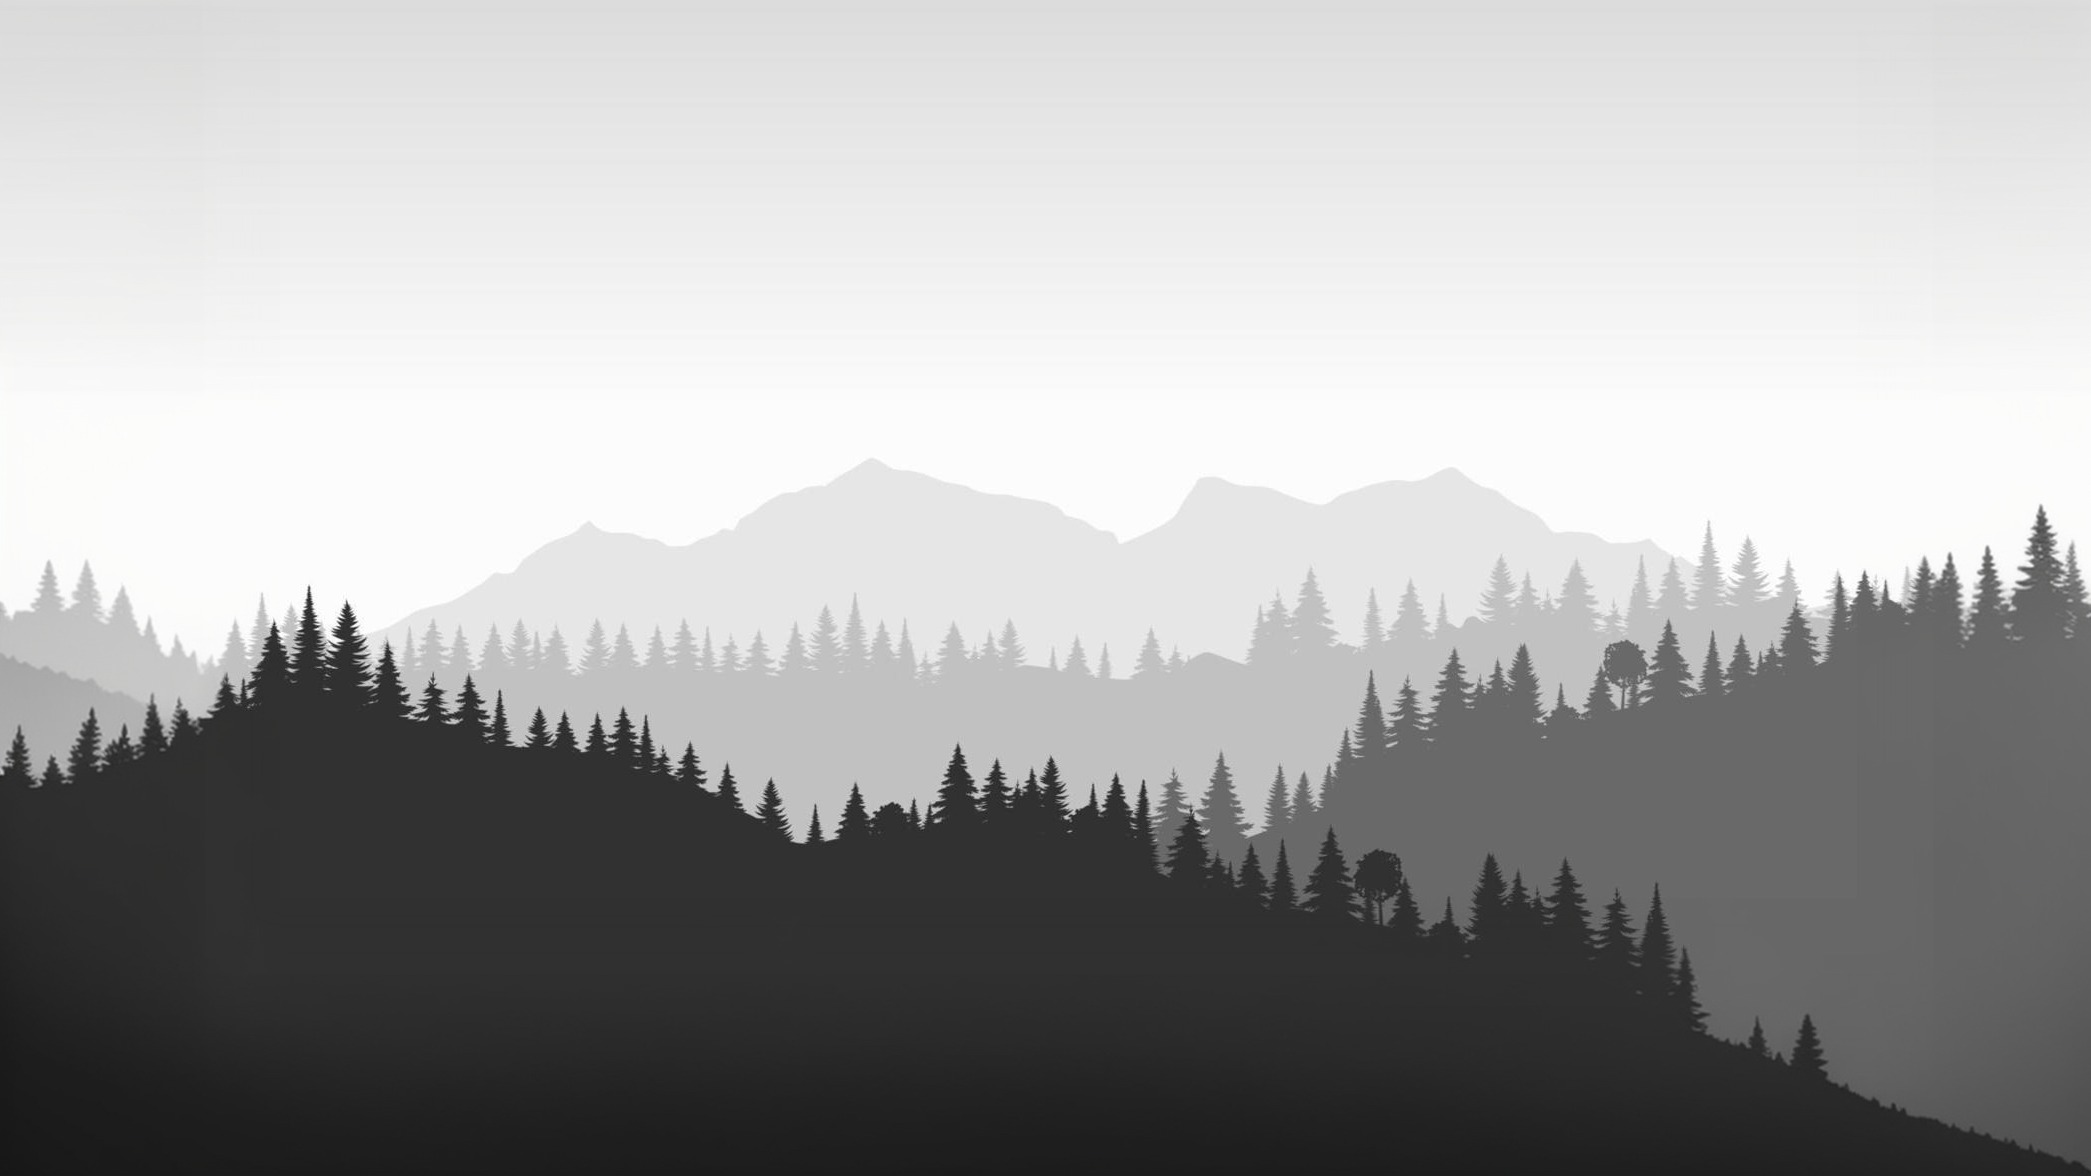
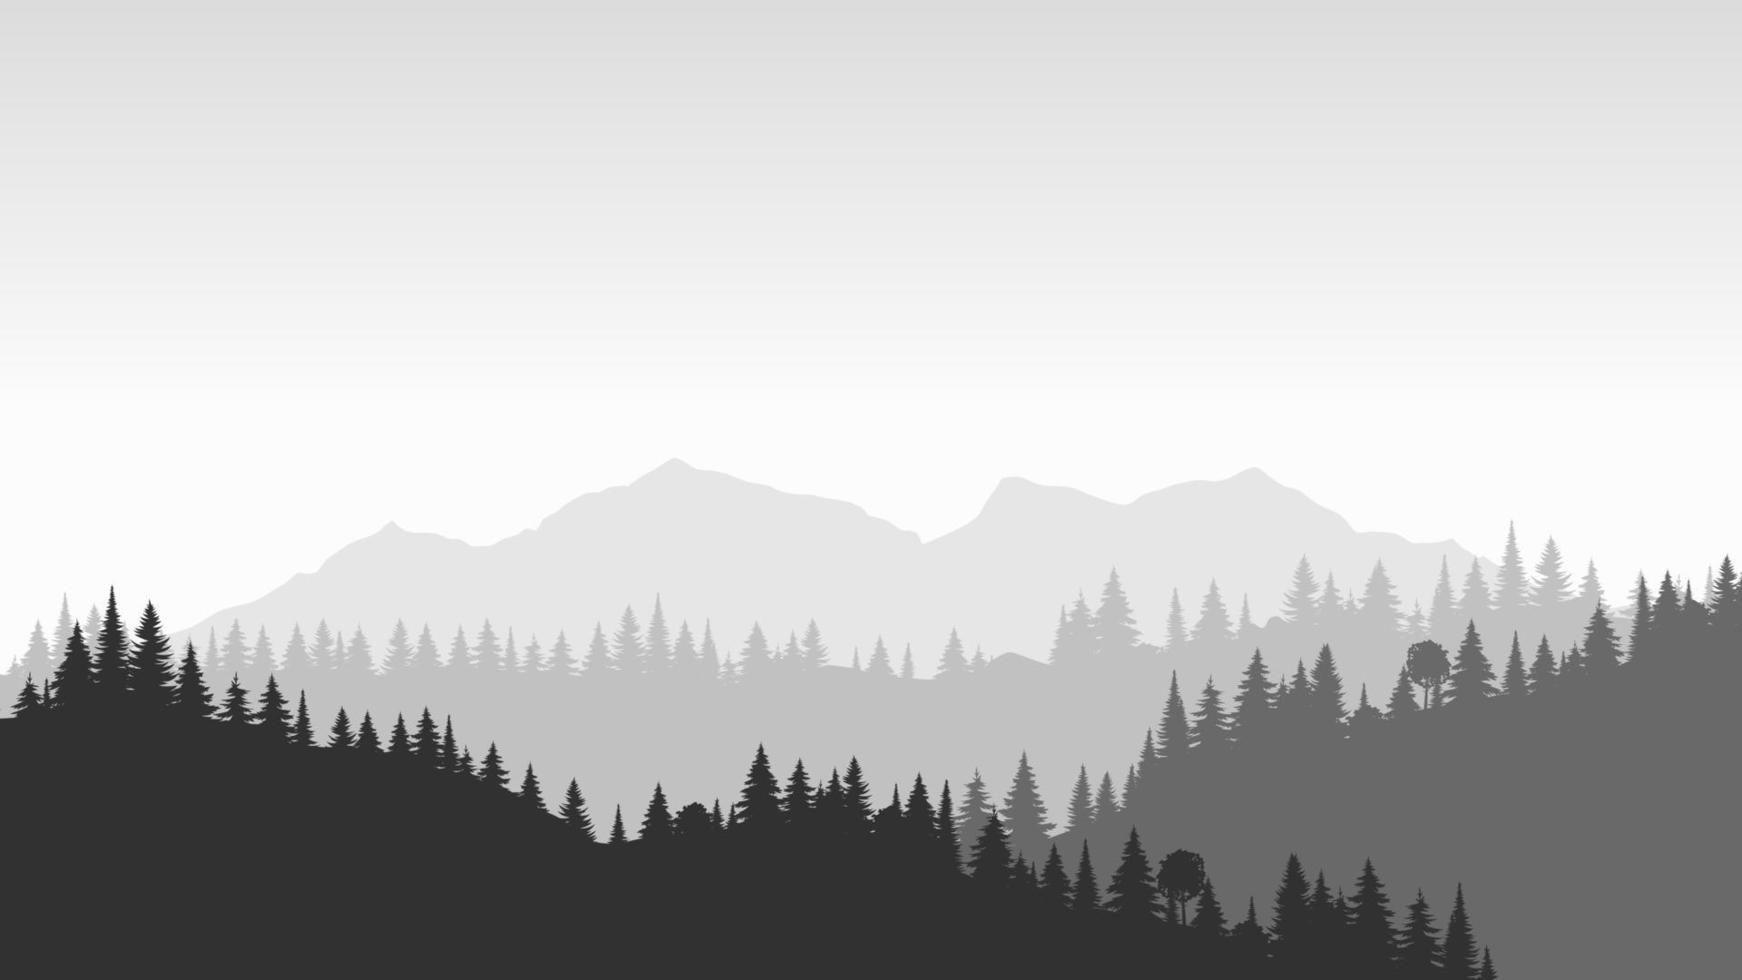
image stretch

Changed region(s): [[0.0, 0.4286, 1.0, 1.0], [0.0, 0.949, 0.031, 1.0]]

diff --git a/css/IndexLayout.css b/css/IndexLayout.css
@@ -4,12 +4,14 @@
     text-shadow: black;
 }
 
+
+
 body {
     background: 
         url('/Images/BGimage.jpg') no-repeat center top;
         background-color: #313131;
-    background-size: cover;
-    height: 200vh; /* This makes the page tall enough to scroll */
+        background-size: 100vw 100vh;
+        height: 200vh; /* This makes the page tall enough to scroll */
 }
 
 .content {
